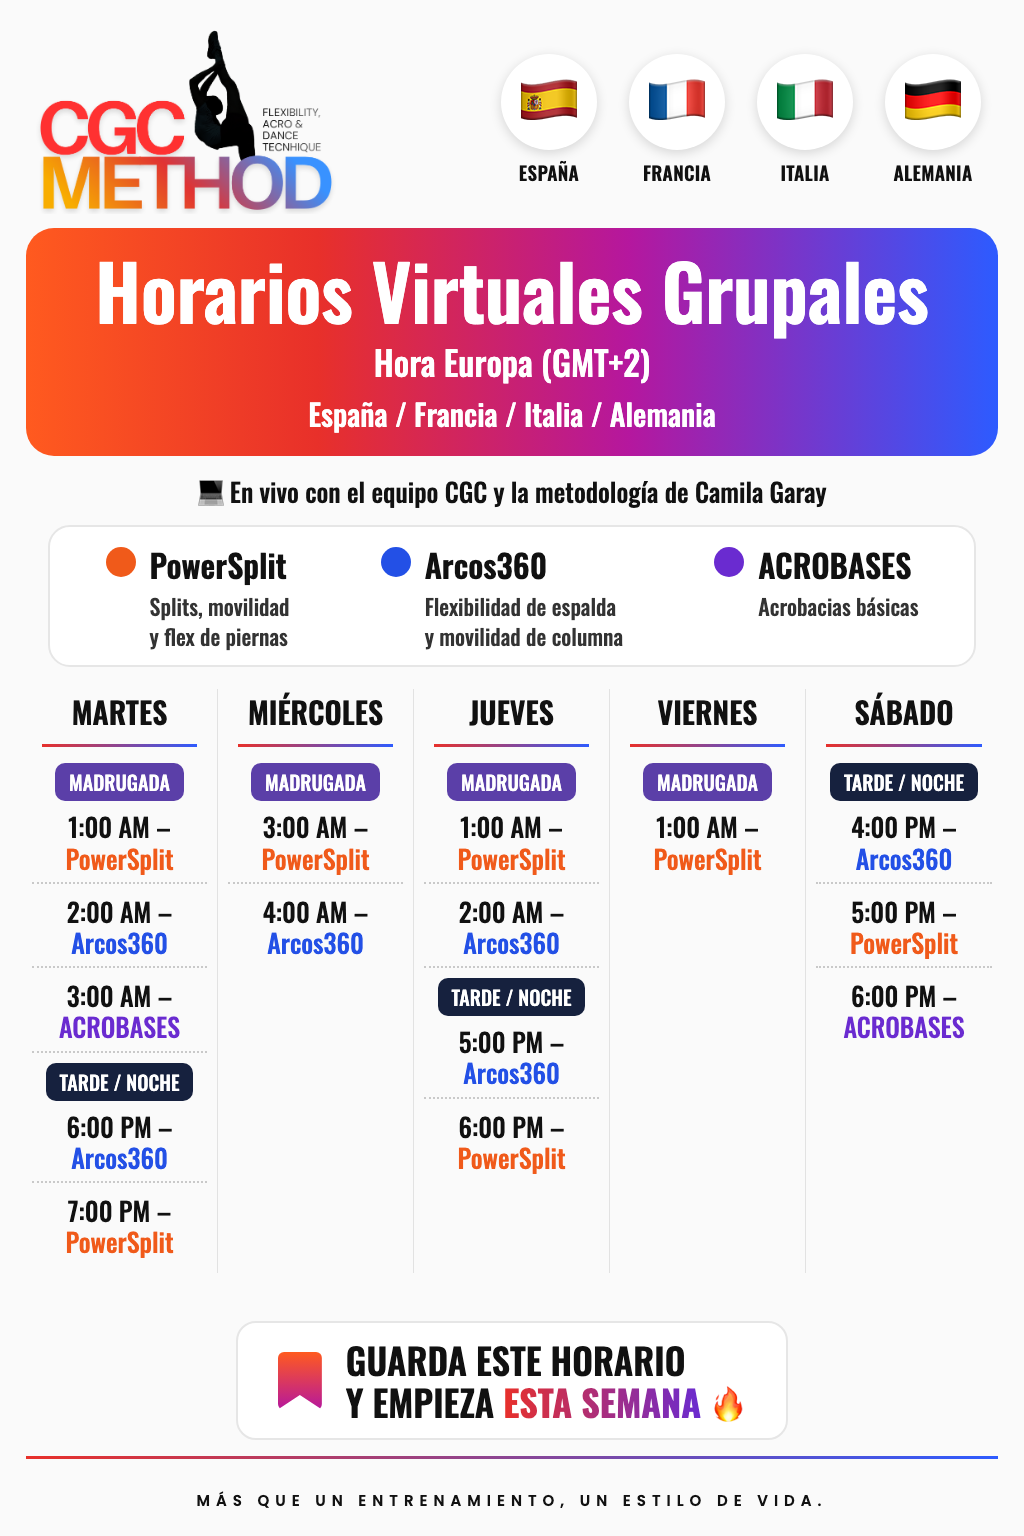
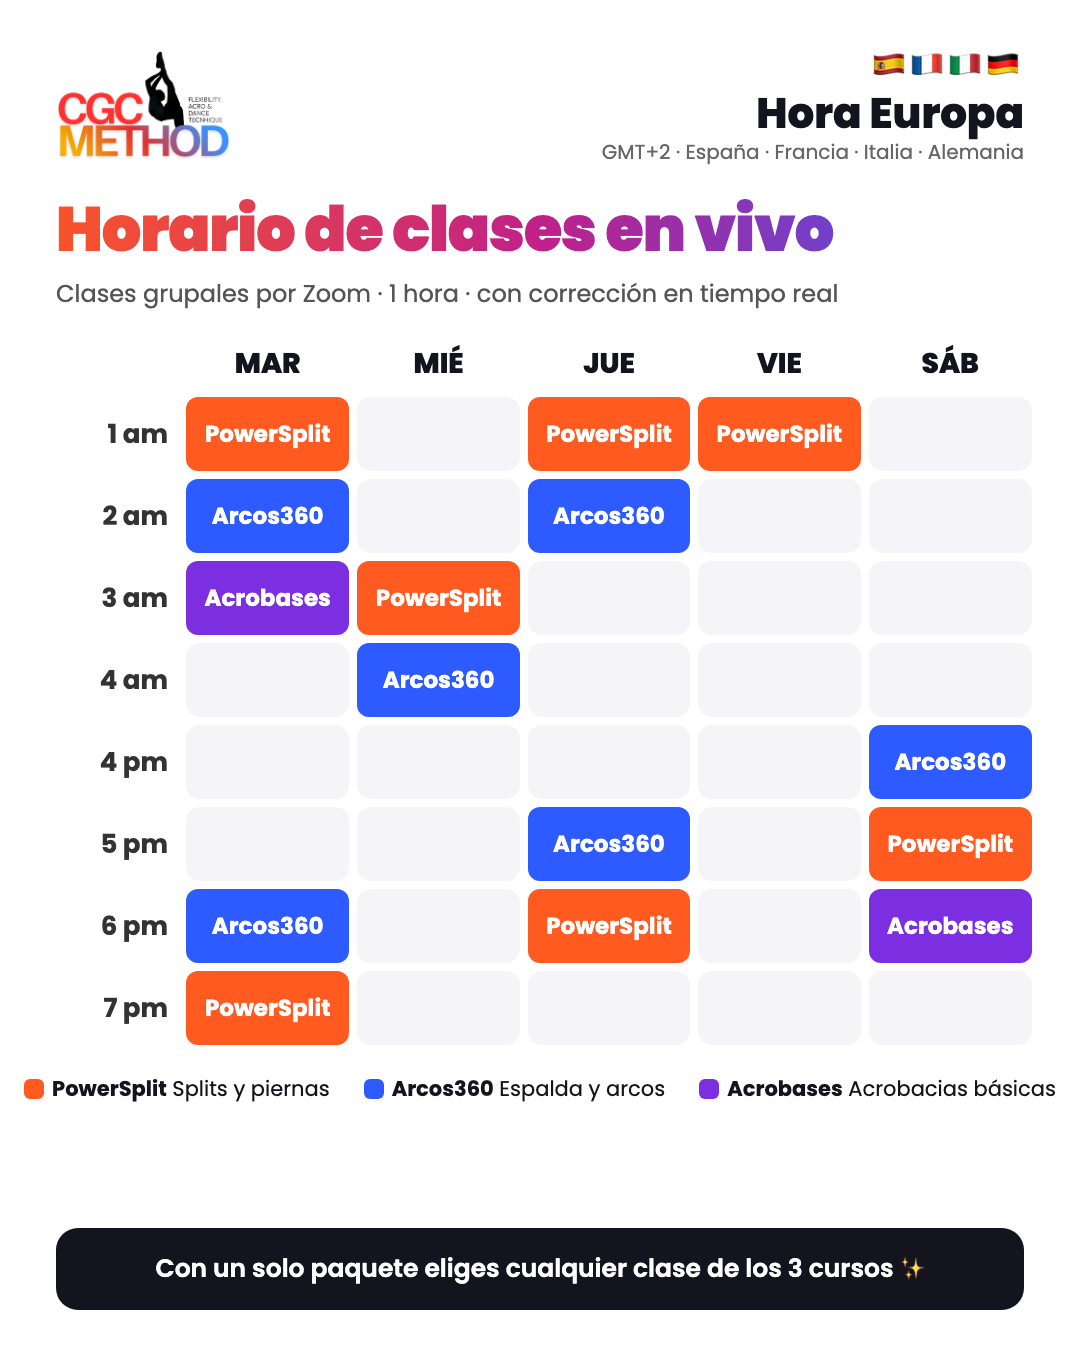
Horarios nuevos (diseño calendario, desde la web) y 'Acrobases' con solo la A mayúscula

diff --git a/index.html b/index.html
@@ -266,7 +266,7 @@ body{font-family:'Segoe UI',system-ui,sans-serif;color:var(--dark);background:#E
   <div class="p-body">
 
     <div class="p-sec">
-      <div class="p-sec-title">Grupales virtuales — PowerSplit · Arcos360 · ACROBASES</div>
+      <div class="p-sec-title">Grupales virtuales — PowerSplit · Arcos360 · Acrobases</div>
       <div style="background:linear-gradient(135deg,#E8302A,#F07820);border-radius:10px;padding:10px 14px;margin-bottom:12px;color:#fff;font-size:13px;font-weight:700;display:flex;align-items:center;gap:8px">
         🔥 20% DE DESCUENTO — Decirle al lead que es SOLO POR HOY para generar urgencia
       </div>
@@ -319,7 +319,7 @@ body{font-family:'Segoe UI',system-ui,sans-serif;color:var(--dark);background:#E
           <div class="pc-save">El menor costo por clase 💎</div>
         </div>
       </div>
-      <div class="info-box" style="background:#f9f9f9;color:#666;margin-top:10px">💡 El alumno puede combinar PowerSplit + Arcos360 + ACROBASES en el mismo paquete.</div>
+      <div class="info-box" style="background:#f9f9f9;color:#666;margin-top:10px">💡 El alumno puede combinar PowerSplit + Arcos360 + Acrobases en el mismo paquete.</div>
     </div>
 
     <div class="p-sec">
@@ -430,7 +430,7 @@ const STEPS = [
       {v:'splits',        icon:'🦵', l:'Solo splits / apertura de piernas', d:'Quiere abrir más las piernas: split sagital, frontal, elevaciones'},
       {v:'arcos',         icon:'🌙', l:'Solo arcos / flexibilidad de espalda', d:'Quiere mejorar su arco, puente, escorpión o figuras posteriores'},
       {v:'flexibilidad',  icon:'🔥', l:'Flexibilidad completa — splits + arcos', d:'Quiere trabajar ambos: apertura de piernas Y flexibilidad de espalda'},
-      {v:'todo',          icon:'⭐', l:'Todo — flexibilidad + fuerza + técnica', d:'Flexibilidad completa (splits + arcos) + ACROBASES (fuerza y base acrobática)'},
+      {v:'todo',          icon:'⭐', l:'Todo — flexibilidad + fuerza + técnica', d:'Flexibilidad completa (splits + arcos) + Acrobases (fuerza y base acrobática)'},
       {v:'acrobases',     icon:'🤸', l:'Aprender acrobacias', d:'Parada de manos, rueda de carro, rodamientos — base acrobática'},
       {v:'1a1',           icon:'🎯', l:'Clases 1:1 (Cami, Andrea o Sebastián)', d:'Quiere atención personalizada con un coach'}
     ]
@@ -510,9 +510,9 @@ const REC = {
   'powersplit':   {icon:'🦵', name:'PowerSplit',                              color:'linear-gradient(135deg,#F07820,#E8302A)', nota:'Splits: sagital, frontal, elevaciones y flexibilidad activa de piernas.'},
   'arcos360':     {icon:'🌙', name:'Arcos360',                               color:'linear-gradient(135deg,#8B4FC8,#C040A0)', nota:'El curso de flexibilidad de espalda: arco, puente, escorpión y figuras posteriores.'},
   'ps-a360':      {icon:'🔥', name:'PowerSplit + Arcos360',                  color:'linear-gradient(135deg,#8B4FC8,#E8302A)', nota:'Los dos cursos de flexibilidad: splits y arcos. Con un solo paquete acceden a los dos.'},
-  'completo':     {icon:'⭐', name:'PowerSplit + Arcos360 + ACROBASES',      color:'linear-gradient(135deg,#4A7FD4,#8B4FC8)', nota:'Programa integral: flexibilidad + fuerza + base acrobática. Un paquete, tres cursos.'},
+  'completo':     {icon:'⭐', name:'PowerSplit + Arcos360 + Acrobases',      color:'linear-gradient(135deg,#4A7FD4,#8B4FC8)', nota:'Programa integral: flexibilidad + fuerza + base acrobática. Un paquete, tres cursos.'},
   '1a1':          {icon:'🎯', name:'Clases 1:1 personalizadas',               color:'linear-gradient(135deg,#E8302A,#C040A0)', nota:'Atención personalizada con Cami ($60), Andrea ($35) o Sebastián ($35) según lo que busca el alumno.'},
-  'acrobases':    {icon:'🤸', name:'ACROBASES',                              color:'linear-gradient(135deg,#2ECC71,#1A7FD4)', nota:'Acrobacias básicas: parada de manos, rueda de carro, rodamientos. Con preparación física integrada.'}
+  'acrobases':    {icon:'🤸', name:'Acrobases',                              color:'linear-gradient(135deg,#2ECC71,#1A7FD4)', nota:'Acrobacias básicas: parada de manos, rueda de carro, rodamientos. Con preparación física integrada.'}
 };
 
 // ── BUILD MESSAGES ────────────────────────────────────
@@ -578,13 +578,13 @@ function buildMsgs(rec) {
     'powersplit': `*PowerSplit* 🦵 — split sagital, frontal y elevaciones, con técnica de fuerza (no solo estirar)`,
     'arcos360':   `*Arcos360* 🌙 — arco, puente, escorpión y figuras de espalda, desde la base`,
     'ps-a360':    `*PowerSplit + Arcos360*:\n🦵 PowerSplit — splits, apertura y elevaciones de piernas\n🌙 Arcos360 — arco, movilidad de espalda, escorpión y figuras posteriores`,
-    'completo':   `el programa completo *PowerSplit + Arcos360 + ACROBASES*:\n🦵 PowerSplit — splits y apertura de piernas\n🌙 Arcos360 — flexibilidad de espalda y arcos\n🤸 ACROBASES — acrobacias básicas con preparación física`,
-    'acrobases':  `*ACROBASES* 🤸 — parada de manos, parada de codos, rueda de carro y rodamientos, paso a paso y de forma segura, con preparación física integrada`
+    'completo':   `el programa completo *PowerSplit + Arcos360 + Acrobases*:\n🦵 PowerSplit — splits y apertura de piernas\n🌙 Arcos360 — flexibilidad de espalda y arcos\n🤸 Acrobases — acrobacias básicas con preparación física`,
+    'acrobases':  `*Acrobases* 🤸 — parada de manos, parada de codos, rueda de carro y rodamientos, paso a paso y de forma segura, con preparación física integrada`
   };
   if (rec !== '1a1') {
     steps.push({who:tw, lbl:'Mensaje 1 — Recomendación + 1 pregunta',
       txt: `¡Hola [nombre]! ${v('Soy Cami. ','')}Ya ${v('leí','leímos')} lo que ${m(v('me compartieron','nos compartieron'), v('me contaste','nos contaste'))} 😊\n\n[Repite con sus palabras lo que busca. Ej.: "${rec==='acrobases' ? m('Quieres que tu hijo/a aprenda parada de manos y rueda de carro','Quieres lograr tu parada de manos y perderle el miedo') : m('Quieres que tu hijo/a logre su split y mejore su arco','Quieres lograr tu split y mejorar tu arco')}"]\n\nPara eso lo ideal ${m('para tu hijo/a ','')}es ${LINEAS[rec]}\n\nSon clases en vivo por Zoom con un coach que corrige en tiempo real, y con un solo paquete ${m('accede','accedes')} a los 3 cursos ✨\n\n¿${m('Podría entrenar','Podrías entrenar')} 2 o 3 veces por semana? 📅`,
-      note:'⏱ Mándalo el MISMO DÍA en que respondió.\n✍ Cambia la línea entre corchetes por lo que te escribió, con sus palabras.\n🚫 No vuelvas a preguntar lo que ya te dijo (edad, país, objetivo).\n🎯 Si quiere acrobacias, parada de manos, parada de cabeza o cuervo → la recomendación es ACROBASES (vuelve y elige "Aprender acrobacias").\n📍 Si NO sabes su país, agrega al final: "¿Y desde qué país nos escribes? Así te paso el horario de tu zona".\n💰 Si ya preguntó el precio, no lo hagas esperar: manda este mensaje y enseguida el de precio (paso de "¿Cuántos días?"), asumiendo 2 días si no lo dijo.'
+      note:'⏱ Mándalo el MISMO DÍA en que respondió.\n✍ Cambia la línea entre corchetes por lo que te escribió, con sus palabras.\n🚫 No vuelvas a preguntar lo que ya te dijo (edad, país, objetivo).\n🎯 Si quiere acrobacias, parada de manos, parada de cabeza o cuervo → la recomendación es Acrobases (vuelve y elige "Aprender acrobacias").\n📍 Si NO sabes su país, agrega al final: "¿Y desde qué país nos escribes? Así te paso el horario de tu zona".\n💰 Si ya preguntó el precio, no lo hagas esperar: manda este mensaje y enseguida el de precio (paso de "¿Cuántos días?"), asumiendo 2 días si no lo dijo.'
     });
     steps.push({who:tw, lbl:'Enviar imagen — Resultado real', isAction:true,
       action:'📸 Justo después del mensaje 1, envía UNA imagen según el género del lead:\n👩 Mujer → Laura\n👨 Hombre → Manuel', imgs:['img/laura-resultados-cgc.webp','img/manuel-resultados-cgc.webp']});
@@ -675,7 +675,7 @@ function buildMsgs(rec) {
       action: (isLima || !isExt) ? '📸 Envía esta imagen de horarios justo antes del mensaje de precio:' : '📸 Envía SOLO la imagen del horario de su país, justo antes del mensaje de precio:',
       imgs: horImgs});
     const precioTxt = (clases, lista, final, porClase, vig) =>
-      `Para ${clases===8?'2':'3'} veces por semana ${m('le','te')} queda el paquete de *${clases} clases en vivo*:\n\n💰 ~${lista}~ → *${final}* con el 20% de descuento (sale a ${porClase} por clase)\n\nIncluye:\n✅ ${clases} clases en vivo por Zoom con corrección en tiempo real\n🎁 Biblioteca de clases grabadas para repasar\n🦵 Los 3 cursos: PowerSplit + Arcos360 + ACROBASES\n📅 Vigencia: ${vig}\n\nArriba ${v('te dejo','te dejamos')} el horario de ${m('su','tu')} zona 👆\n${m('¿Prefieren que empiece el [día] a las [hora] o el [día] a las [hora]?','¿Empiezas el [día] a las [hora] o prefieres el [día] a las [hora]?')} Así ${v('dejo','dejamos')} listo ${m('su','tu')} paquete 😊`;
+      `Para ${clases===8?'2':'3'} veces por semana ${m('le','te')} queda el paquete de *${clases} clases en vivo*:\n\n💰 ~${lista}~ → *${final}* con el 20% de descuento (sale a ${porClase} por clase)\n\nIncluye:\n✅ ${clases} clases en vivo por Zoom con corrección en tiempo real\n🎁 Biblioteca de clases grabadas para repasar\n🦵 Los 3 cursos: PowerSplit + Arcos360 + Acrobases\n📅 Vigencia: ${vig}\n\nArriba ${v('te dejo','te dejamos')} el horario de ${m('su','tu')} zona 👆\n${m('¿Prefieren que empiece el [día] a las [hora] o el [día] a las [hora]?','¿Empiezas el [día] a las [hora] o prefieres el [día] a las [hora]?')} Así ${v('dejo','dejamos')} listo ${m('su','tu')} paquete 😊`;
     steps.push({
       type:'branch',
       lbl:'Mensaje 2 — ¿Cuántos días respondió? (precio + cierre)',
@@ -1437,7 +1437,7 @@ function buildQuickScreen(modo) {
   const msgs = [
     {
       label:'💰 Su primer mensaje es "¿cuánto cuesta?"',
-      txt:`¡Hola [nombre]! Claro 😊 Los paquetes de clases en vivo por Zoom van desde *$64 USD* (8 clases, sale a $8 por clase) con el 20% de descuento, y con un solo paquete accedes a los 3 cursos: PowerSplit, Arcos360 y ACROBASES.\n\nPara recomendarte el ideal: ¿qué te gustaría lograr y podrías entrenar 2 o 3 veces por semana?`,
+      txt:`¡Hola [nombre]! Claro 😊 Los paquetes de clases en vivo por Zoom van desde *$64 USD* (8 clases, sale a $8 por clase) con el 20% de descuento, y con un solo paquete accedes a los 3 cursos: PowerSplit, Arcos360 y Acrobases.\n\nPara recomendarte el ideal: ¿qué te gustaría lograr y podrías entrenar 2 o 3 veces por semana?`,
       note:'Nunca respondas "precio" con otra pregunta sola: primero el precio, después la pregunta.\n🇵🇪 Si está en Perú: "desde *S/200* (8 clases, sale a S/25 por clase)".\nCon su respuesta, sigue en "Nueva asesoría" desde el mensaje 2.'
     },
     {

diff --git a/manual-ventas-whatsapp.html b/manual-ventas-whatsapp.html
@@ -266,7 +266,7 @@ body{font-family:'Segoe UI',system-ui,sans-serif;color:var(--dark);background:#E
   <div class="p-body">
 
     <div class="p-sec">
-      <div class="p-sec-title">Grupales virtuales — PowerSplit · Arcos360 · ACROBASES</div>
+      <div class="p-sec-title">Grupales virtuales — PowerSplit · Arcos360 · Acrobases</div>
       <div style="background:linear-gradient(135deg,#E8302A,#F07820);border-radius:10px;padding:10px 14px;margin-bottom:12px;color:#fff;font-size:13px;font-weight:700;display:flex;align-items:center;gap:8px">
         🔥 20% DE DESCUENTO — Decirle al lead que es SOLO POR HOY para generar urgencia
       </div>
@@ -319,7 +319,7 @@ body{font-family:'Segoe UI',system-ui,sans-serif;color:var(--dark);background:#E
           <div class="pc-save">El menor costo por clase 💎</div>
         </div>
       </div>
-      <div class="info-box" style="background:#f9f9f9;color:#666;margin-top:10px">💡 El alumno puede combinar PowerSplit + Arcos360 + ACROBASES en el mismo paquete.</div>
+      <div class="info-box" style="background:#f9f9f9;color:#666;margin-top:10px">💡 El alumno puede combinar PowerSplit + Arcos360 + Acrobases en el mismo paquete.</div>
     </div>
 
     <div class="p-sec">
@@ -430,7 +430,7 @@ const STEPS = [
       {v:'splits',        icon:'🦵', l:'Solo splits / apertura de piernas', d:'Quiere abrir más las piernas: split sagital, frontal, elevaciones'},
       {v:'arcos',         icon:'🌙', l:'Solo arcos / flexibilidad de espalda', d:'Quiere mejorar su arco, puente, escorpión o figuras posteriores'},
       {v:'flexibilidad',  icon:'🔥', l:'Flexibilidad completa — splits + arcos', d:'Quiere trabajar ambos: apertura de piernas Y flexibilidad de espalda'},
-      {v:'todo',          icon:'⭐', l:'Todo — flexibilidad + fuerza + técnica', d:'Flexibilidad completa (splits + arcos) + ACROBASES (fuerza y base acrobática)'},
+      {v:'todo',          icon:'⭐', l:'Todo — flexibilidad + fuerza + técnica', d:'Flexibilidad completa (splits + arcos) + Acrobases (fuerza y base acrobática)'},
       {v:'acrobases',     icon:'🤸', l:'Aprender acrobacias', d:'Parada de manos, rueda de carro, rodamientos — base acrobática'},
       {v:'1a1',           icon:'🎯', l:'Clases 1:1 (Cami, Andrea o Sebastián)', d:'Quiere atención personalizada con un coach'}
     ]
@@ -510,9 +510,9 @@ const REC = {
   'powersplit':   {icon:'🦵', name:'PowerSplit',                              color:'linear-gradient(135deg,#F07820,#E8302A)', nota:'Splits: sagital, frontal, elevaciones y flexibilidad activa de piernas.'},
   'arcos360':     {icon:'🌙', name:'Arcos360',                               color:'linear-gradient(135deg,#8B4FC8,#C040A0)', nota:'El curso de flexibilidad de espalda: arco, puente, escorpión y figuras posteriores.'},
   'ps-a360':      {icon:'🔥', name:'PowerSplit + Arcos360',                  color:'linear-gradient(135deg,#8B4FC8,#E8302A)', nota:'Los dos cursos de flexibilidad: splits y arcos. Con un solo paquete acceden a los dos.'},
-  'completo':     {icon:'⭐', name:'PowerSplit + Arcos360 + ACROBASES',      color:'linear-gradient(135deg,#4A7FD4,#8B4FC8)', nota:'Programa integral: flexibilidad + fuerza + base acrobática. Un paquete, tres cursos.'},
+  'completo':     {icon:'⭐', name:'PowerSplit + Arcos360 + Acrobases',      color:'linear-gradient(135deg,#4A7FD4,#8B4FC8)', nota:'Programa integral: flexibilidad + fuerza + base acrobática. Un paquete, tres cursos.'},
   '1a1':          {icon:'🎯', name:'Clases 1:1 personalizadas',               color:'linear-gradient(135deg,#E8302A,#C040A0)', nota:'Atención personalizada con Cami ($60), Andrea ($35) o Sebastián ($35) según lo que busca el alumno.'},
-  'acrobases':    {icon:'🤸', name:'ACROBASES',                              color:'linear-gradient(135deg,#2ECC71,#1A7FD4)', nota:'Acrobacias básicas: parada de manos, rueda de carro, rodamientos. Con preparación física integrada.'}
+  'acrobases':    {icon:'🤸', name:'Acrobases',                              color:'linear-gradient(135deg,#2ECC71,#1A7FD4)', nota:'Acrobacias básicas: parada de manos, rueda de carro, rodamientos. Con preparación física integrada.'}
 };
 
 // ── BUILD MESSAGES ────────────────────────────────────
@@ -578,13 +578,13 @@ function buildMsgs(rec) {
     'powersplit': `*PowerSplit* 🦵 — split sagital, frontal y elevaciones, con técnica de fuerza (no solo estirar)`,
     'arcos360':   `*Arcos360* 🌙 — arco, puente, escorpión y figuras de espalda, desde la base`,
     'ps-a360':    `*PowerSplit + Arcos360*:\n🦵 PowerSplit — splits, apertura y elevaciones de piernas\n🌙 Arcos360 — arco, movilidad de espalda, escorpión y figuras posteriores`,
-    'completo':   `el programa completo *PowerSplit + Arcos360 + ACROBASES*:\n🦵 PowerSplit — splits y apertura de piernas\n🌙 Arcos360 — flexibilidad de espalda y arcos\n🤸 ACROBASES — acrobacias básicas con preparación física`,
-    'acrobases':  `*ACROBASES* 🤸 — parada de manos, parada de codos, rueda de carro y rodamientos, paso a paso y de forma segura, con preparación física integrada`
+    'completo':   `el programa completo *PowerSplit + Arcos360 + Acrobases*:\n🦵 PowerSplit — splits y apertura de piernas\n🌙 Arcos360 — flexibilidad de espalda y arcos\n🤸 Acrobases — acrobacias básicas con preparación física`,
+    'acrobases':  `*Acrobases* 🤸 — parada de manos, parada de codos, rueda de carro y rodamientos, paso a paso y de forma segura, con preparación física integrada`
   };
   if (rec !== '1a1') {
     steps.push({who:tw, lbl:'Mensaje 1 — Recomendación + 1 pregunta',
       txt: `¡Hola [nombre]! ${v('Soy Cami. ','')}Ya ${v('leí','leímos')} lo que ${m(v('me compartieron','nos compartieron'), v('me contaste','nos contaste'))} 😊\n\n[Repite con sus palabras lo que busca. Ej.: "${rec==='acrobases' ? m('Quieres que tu hijo/a aprenda parada de manos y rueda de carro','Quieres lograr tu parada de manos y perderle el miedo') : m('Quieres que tu hijo/a logre su split y mejore su arco','Quieres lograr tu split y mejorar tu arco')}"]\n\nPara eso lo ideal ${m('para tu hijo/a ','')}es ${LINEAS[rec]}\n\nSon clases en vivo por Zoom con un coach que corrige en tiempo real, y con un solo paquete ${m('accede','accedes')} a los 3 cursos ✨\n\n¿${m('Podría entrenar','Podrías entrenar')} 2 o 3 veces por semana? 📅`,
-      note:'⏱ Mándalo el MISMO DÍA en que respondió.\n✍ Cambia la línea entre corchetes por lo que te escribió, con sus palabras.\n🚫 No vuelvas a preguntar lo que ya te dijo (edad, país, objetivo).\n🎯 Si quiere acrobacias, parada de manos, parada de cabeza o cuervo → la recomendación es ACROBASES (vuelve y elige "Aprender acrobacias").\n📍 Si NO sabes su país, agrega al final: "¿Y desde qué país nos escribes? Así te paso el horario de tu zona".\n💰 Si ya preguntó el precio, no lo hagas esperar: manda este mensaje y enseguida el de precio (paso de "¿Cuántos días?"), asumiendo 2 días si no lo dijo.'
+      note:'⏱ Mándalo el MISMO DÍA en que respondió.\n✍ Cambia la línea entre corchetes por lo que te escribió, con sus palabras.\n🚫 No vuelvas a preguntar lo que ya te dijo (edad, país, objetivo).\n🎯 Si quiere acrobacias, parada de manos, parada de cabeza o cuervo → la recomendación es Acrobases (vuelve y elige "Aprender acrobacias").\n📍 Si NO sabes su país, agrega al final: "¿Y desde qué país nos escribes? Así te paso el horario de tu zona".\n💰 Si ya preguntó el precio, no lo hagas esperar: manda este mensaje y enseguida el de precio (paso de "¿Cuántos días?"), asumiendo 2 días si no lo dijo.'
     });
     steps.push({who:tw, lbl:'Enviar imagen — Resultado real', isAction:true,
       action:'📸 Justo después del mensaje 1, envía UNA imagen según el género del lead:\n👩 Mujer → Laura\n👨 Hombre → Manuel', imgs:['img/laura-resultados-cgc.webp','img/manuel-resultados-cgc.webp']});
@@ -675,7 +675,7 @@ function buildMsgs(rec) {
       action: (isLima || !isExt) ? '📸 Envía esta imagen de horarios justo antes del mensaje de precio:' : '📸 Envía SOLO la imagen del horario de su país, justo antes del mensaje de precio:',
       imgs: horImgs});
     const precioTxt = (clases, lista, final, porClase, vig) =>
-      `Para ${clases===8?'2':'3'} veces por semana ${m('le','te')} queda el paquete de *${clases} clases en vivo*:\n\n💰 ~${lista}~ → *${final}* con el 20% de descuento (sale a ${porClase} por clase)\n\nIncluye:\n✅ ${clases} clases en vivo por Zoom con corrección en tiempo real\n🎁 Biblioteca de clases grabadas para repasar\n🦵 Los 3 cursos: PowerSplit + Arcos360 + ACROBASES\n📅 Vigencia: ${vig}\n\nArriba ${v('te dejo','te dejamos')} el horario de ${m('su','tu')} zona 👆\n${m('¿Prefieren que empiece el [día] a las [hora] o el [día] a las [hora]?','¿Empiezas el [día] a las [hora] o prefieres el [día] a las [hora]?')} Así ${v('dejo','dejamos')} listo ${m('su','tu')} paquete 😊`;
+      `Para ${clases===8?'2':'3'} veces por semana ${m('le','te')} queda el paquete de *${clases} clases en vivo*:\n\n💰 ~${lista}~ → *${final}* con el 20% de descuento (sale a ${porClase} por clase)\n\nIncluye:\n✅ ${clases} clases en vivo por Zoom con corrección en tiempo real\n🎁 Biblioteca de clases grabadas para repasar\n🦵 Los 3 cursos: PowerSplit + Arcos360 + Acrobases\n📅 Vigencia: ${vig}\n\nArriba ${v('te dejo','te dejamos')} el horario de ${m('su','tu')} zona 👆\n${m('¿Prefieren que empiece el [día] a las [hora] o el [día] a las [hora]?','¿Empiezas el [día] a las [hora] o prefieres el [día] a las [hora]?')} Así ${v('dejo','dejamos')} listo ${m('su','tu')} paquete 😊`;
     steps.push({
       type:'branch',
       lbl:'Mensaje 2 — ¿Cuántos días respondió? (precio + cierre)',
@@ -1437,7 +1437,7 @@ function buildQuickScreen(modo) {
   const msgs = [
     {
       label:'💰 Su primer mensaje es "¿cuánto cuesta?"',
-      txt:`¡Hola [nombre]! Claro 😊 Los paquetes de clases en vivo por Zoom van desde *$64 USD* (8 clases, sale a $8 por clase) con el 20% de descuento, y con un solo paquete accedes a los 3 cursos: PowerSplit, Arcos360 y ACROBASES.\n\nPara recomendarte el ideal: ¿qué te gustaría lograr y podrías entrenar 2 o 3 veces por semana?`,
+      txt:`¡Hola [nombre]! Claro 😊 Los paquetes de clases en vivo por Zoom van desde *$64 USD* (8 clases, sale a $8 por clase) con el 20% de descuento, y con un solo paquete accedes a los 3 cursos: PowerSplit, Arcos360 y Acrobases.\n\nPara recomendarte el ideal: ¿qué te gustaría lograr y podrías entrenar 2 o 3 veces por semana?`,
       note:'Nunca respondas "precio" con otra pregunta sola: primero el precio, después la pregunta.\n🇵🇪 Si está en Perú: "desde *S/200* (8 clases, sale a S/25 por clase)".\nCon su respuesta, sigue en "Nueva asesoría" desde el mensaje 2.'
     },
     {
